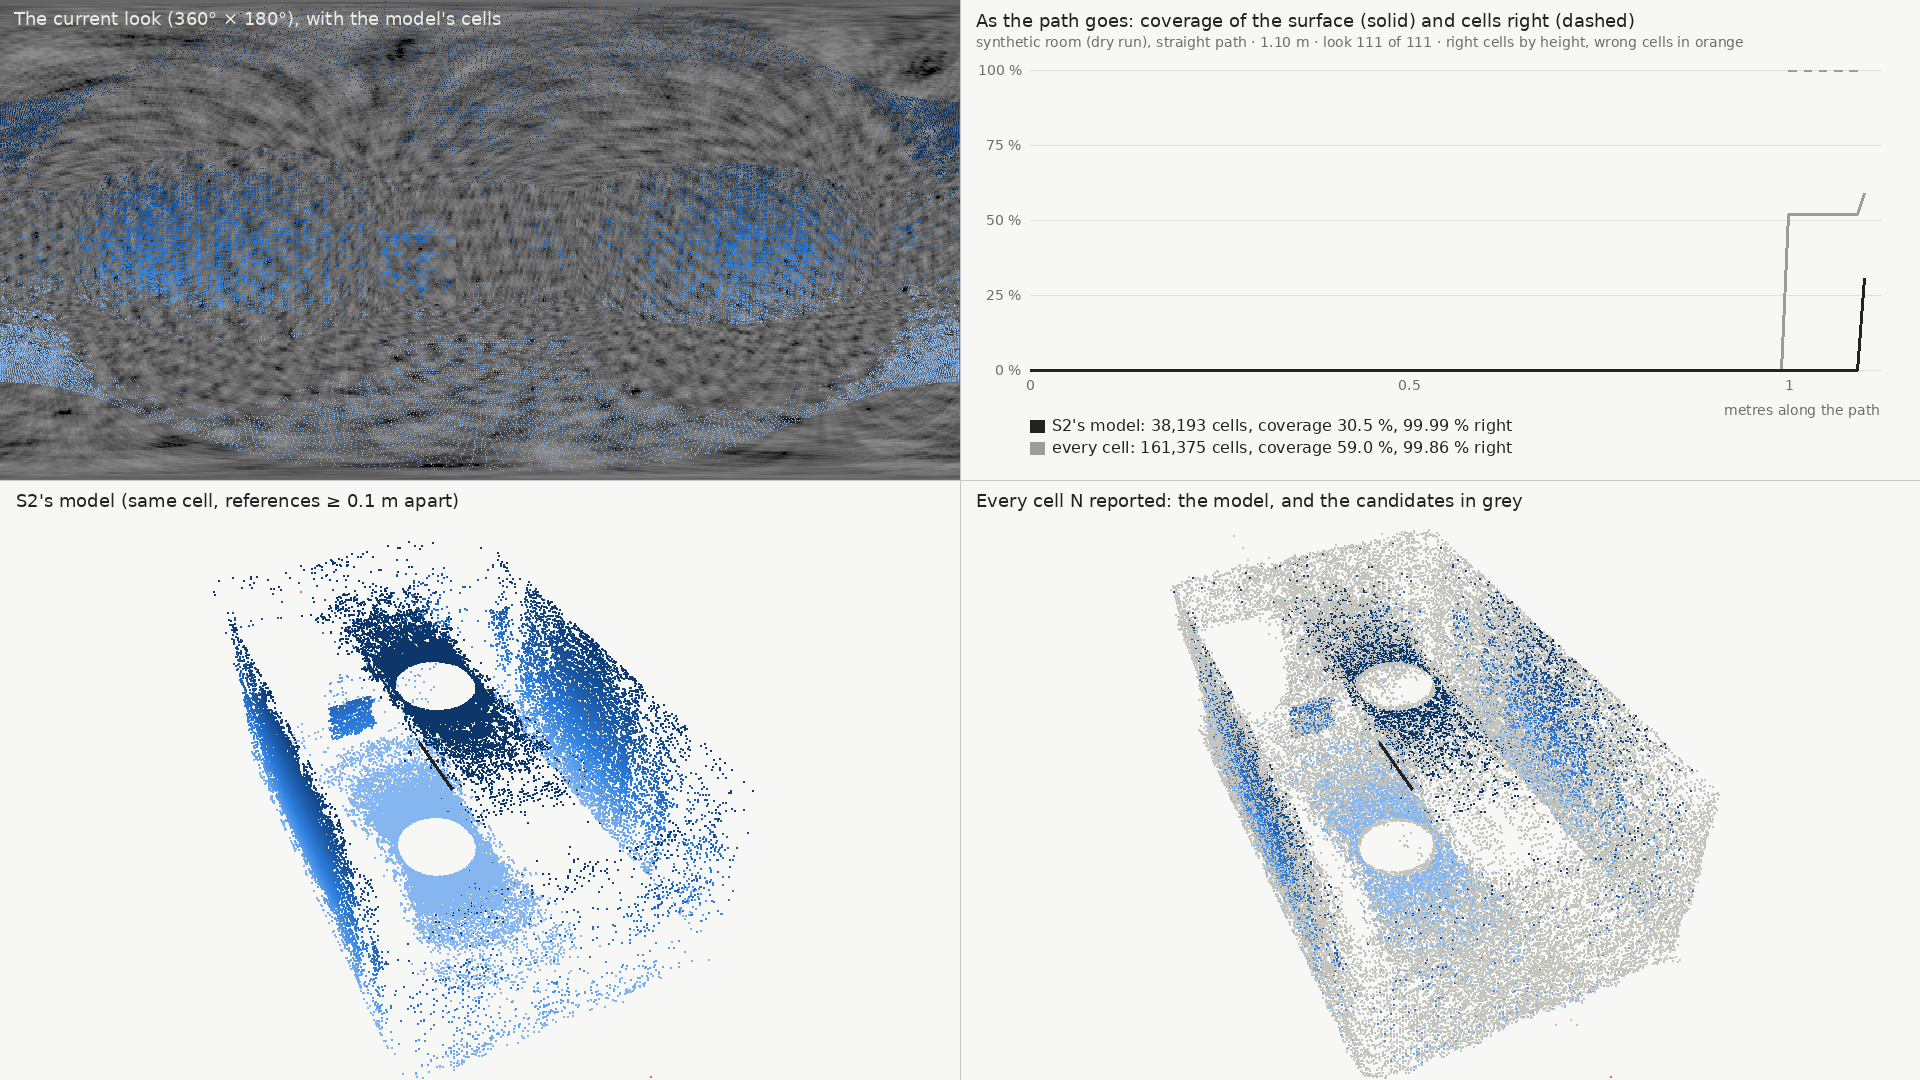
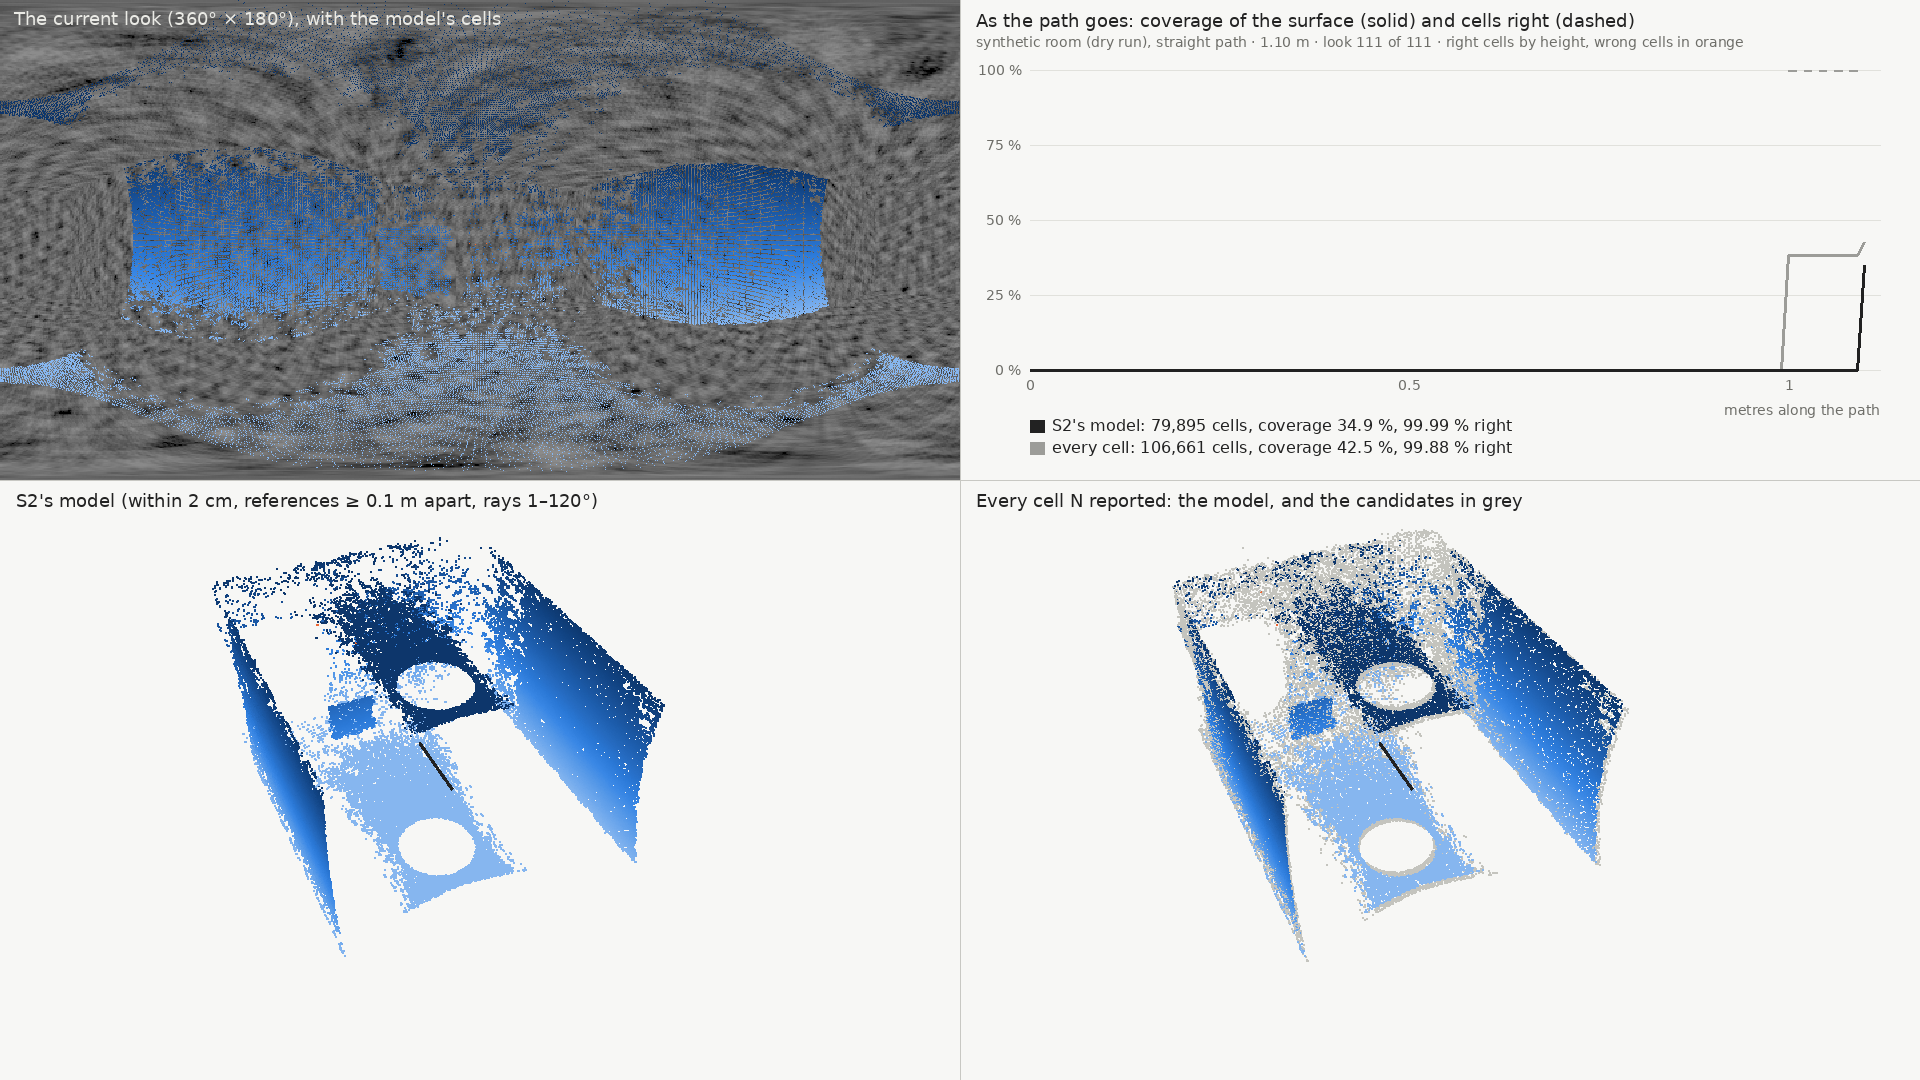
P-D6: Chat's pick for the demo after stage 12b (within 2 cm, >= 1.0 m, rays 1-120 deg); demo D3's dry records with the ray set (Refs #28, Refs #29)
Claude-Session: https://claude.ai/code/session_01JomaUSZ8aRTf6LtGYaxPzq

diff --git a/docs/plan.md b/docs/plan.md
@@ -183,6 +183,18 @@ Later decisions, numbered P-D1, P-D2, …:
   - **measure before the demo:** stage 12b compares two confirmation rules, the same 2 cm cell (S1's) and an estimate
     within 2 cm of the cell, at spans 0, 0.2, 0.5, 0.8 and 1.0 m; Luiz then picks the rule;
   - **the demo** on the Classroom's straight path, video and PLY, shows N1024 alone.
+- **P-D6** (Luiz, 2026-11-21, in Chat, after stage 12b: "pick the option that gives the best result"; Chat's pick,
+  #28). For the demo (#29), N1024's model uses the **within-2 cm rule**, references **at least 1.0 m apart**, and the ray
+  set **ψ 1–120°**.
+  - **Why:** by S1's rule 4, errors first, then coverage. On the full field, N1024 fails S2's gate under every rule and
+    span; its failures sit in 120–180°.
+  - **Without 120–180°** (estimated from stage 12b's per-sector counts, Code, `stage12b.json`):
+    - within 2 cm at 1.0 m: 18,448 cells, 99.80 % right, every sector at least 5 cells clear of the line;
+    - within 2 cm at 0.8 m: 35,008 cells, but its 60–120° sector exactly on the line;
+    - the same-cell rule: 7,612 cells at 0.8 m and 2,866 at 1.0 m.
+  - **Not a validation:** the rule, span and ray set were chosen on the data the demo shows. Testing them needs a path
+    they were not chosen on.
+  - **S2's defaults are unchanged** (same cell, 0.5 m, ψ 1–179°); the demo declares the three as departures.
 
 ## The plan
 
